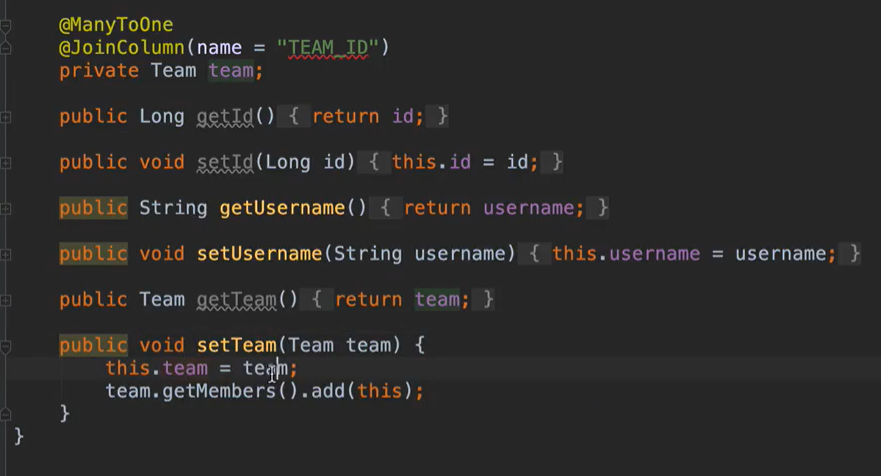
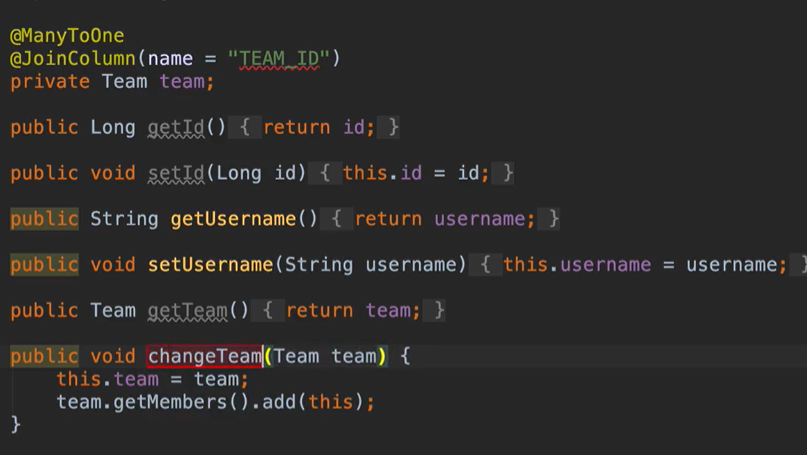
vault backup: 2024-05-10 10:27:46

Changed region(s): [[0.0, 0.0308, 0.9913, 0.9231], [0.9913, 0.5538, 1.0, 0.6154], [0.0, 0.8923, 0.031, 0.9538]]

diff --git a/backend/자바 ORM 표준 JPA 프로그래밍 - 기본편/8. 양방향 연관관계와 연관관계의 주인.md b/backend/자바 ORM 표준 JPA 프로그래밍 - 기본편/8. 양방향 연관관계와 연관관계의 주인.md
@@ -170,7 +170,9 @@ private Team team;
 - 그래서 순수한 객체관계를 고려했 을 때, 연관관계 주인에도 값을 설정해주고, `mappedBy`를 사용하여 읽기전용 속성으로 관리되는 요소일지라도 순수한 객체 관계를 고려하여 업데이트를 해주어야 하는것이다.
 	- 아니면 `em.flush(); em.clear();`를 중간에실행해주어야 한다.
 
-- 그것도 아니면, Member class 엔티티 정의 ㅎ함수를 재정의해주면 된다. (연관관계 편의 메소)
+- 그것도 아니면, Member class 파일에서, 기존 setter함수 로직을 보유하면서, 추가적인 기능을 수행하는 함수를 정의해주면 된다. (연관관계 편의 메소드)
+	- setter 함수 자체의 기능 내에 로직을 추가하는 것은 **관례를 깨는 느낌**이기 때문에 이런 작업을 수행한다.
+	- 물론 비즈니스 로직 상 허용되지 않는 경우도 존재할 수 있다.
 ```java
 //...
 @ManyToOne
@@ -178,8 +180,10 @@ private Team team;
 
 // ...
 
-public void setTeam(Team team){
+public void chagneTeam(Team team){
+	// 기본 setTeam() 기능 (setter)
 	this.team = team;
+	
 	// 여기서 this는 Member 나자신의 "인스턴스"
 	team.getMember().add(this);
 }
